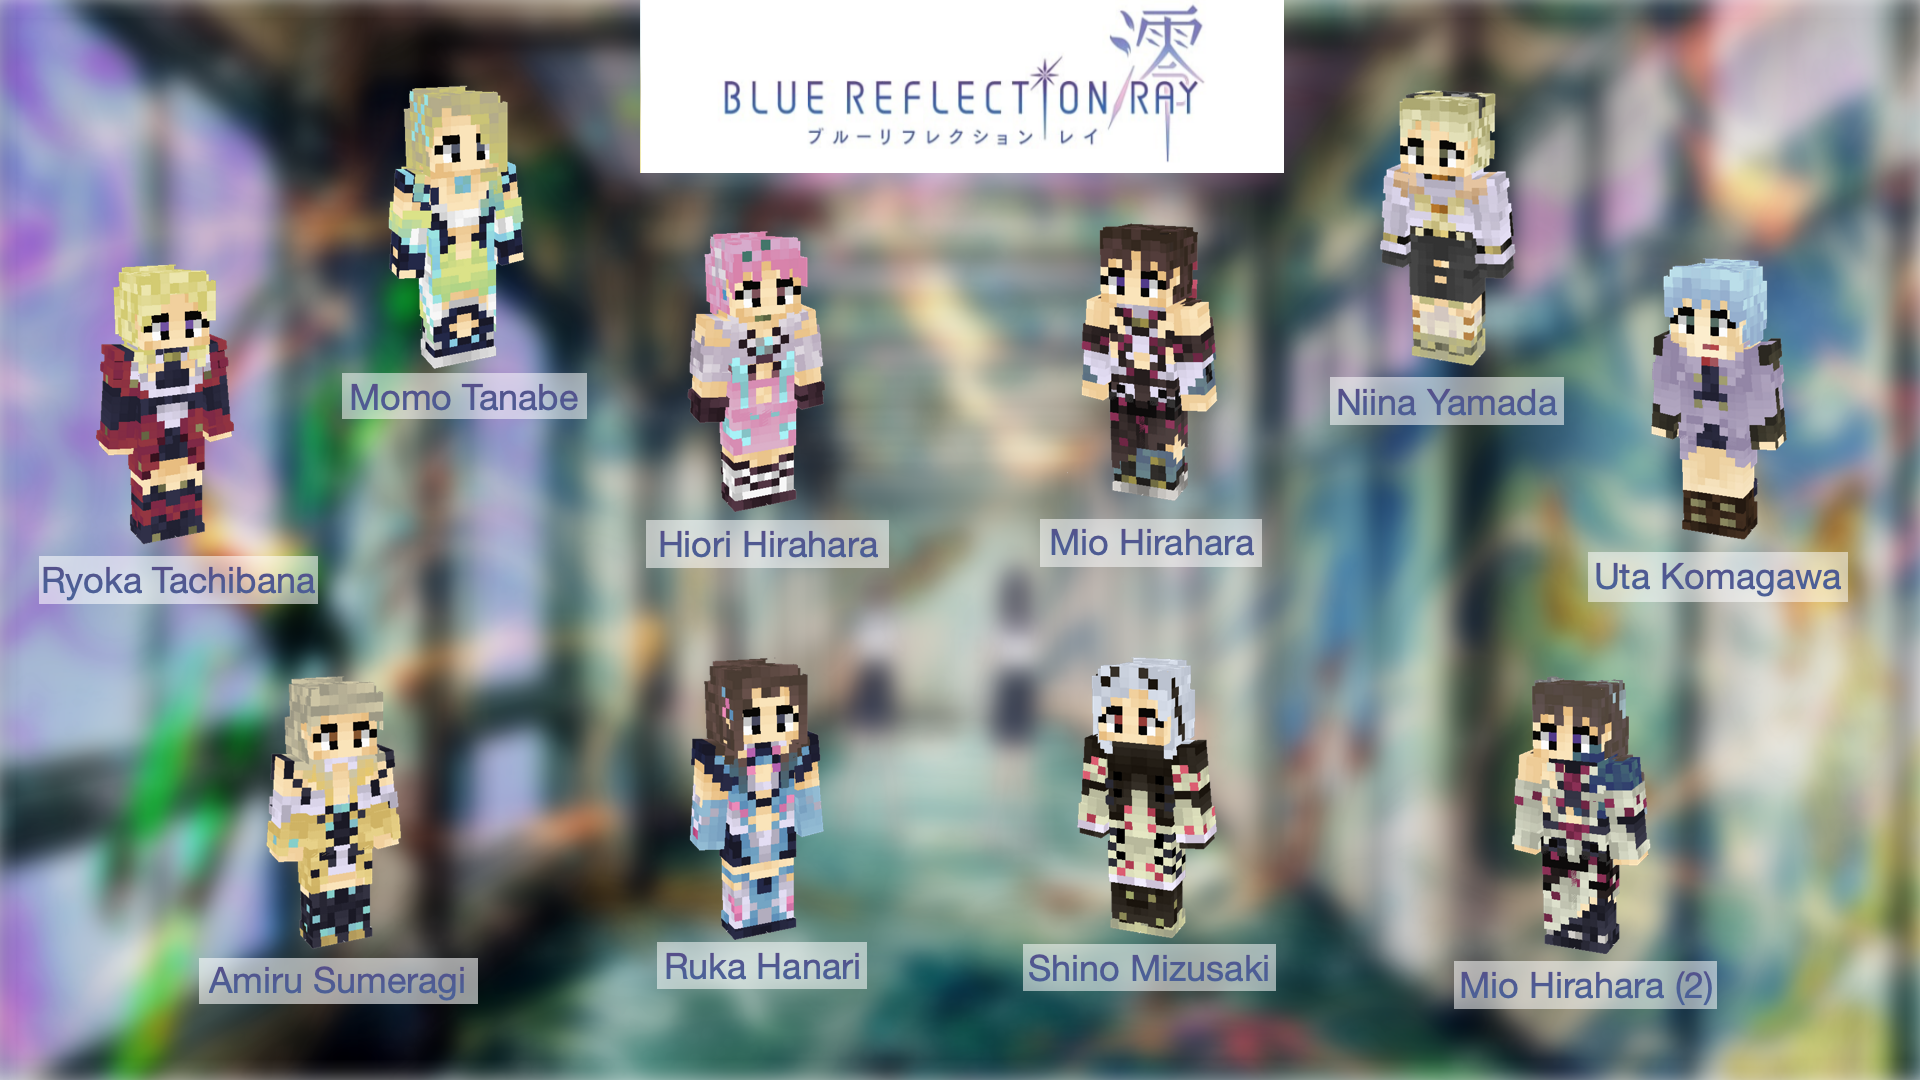
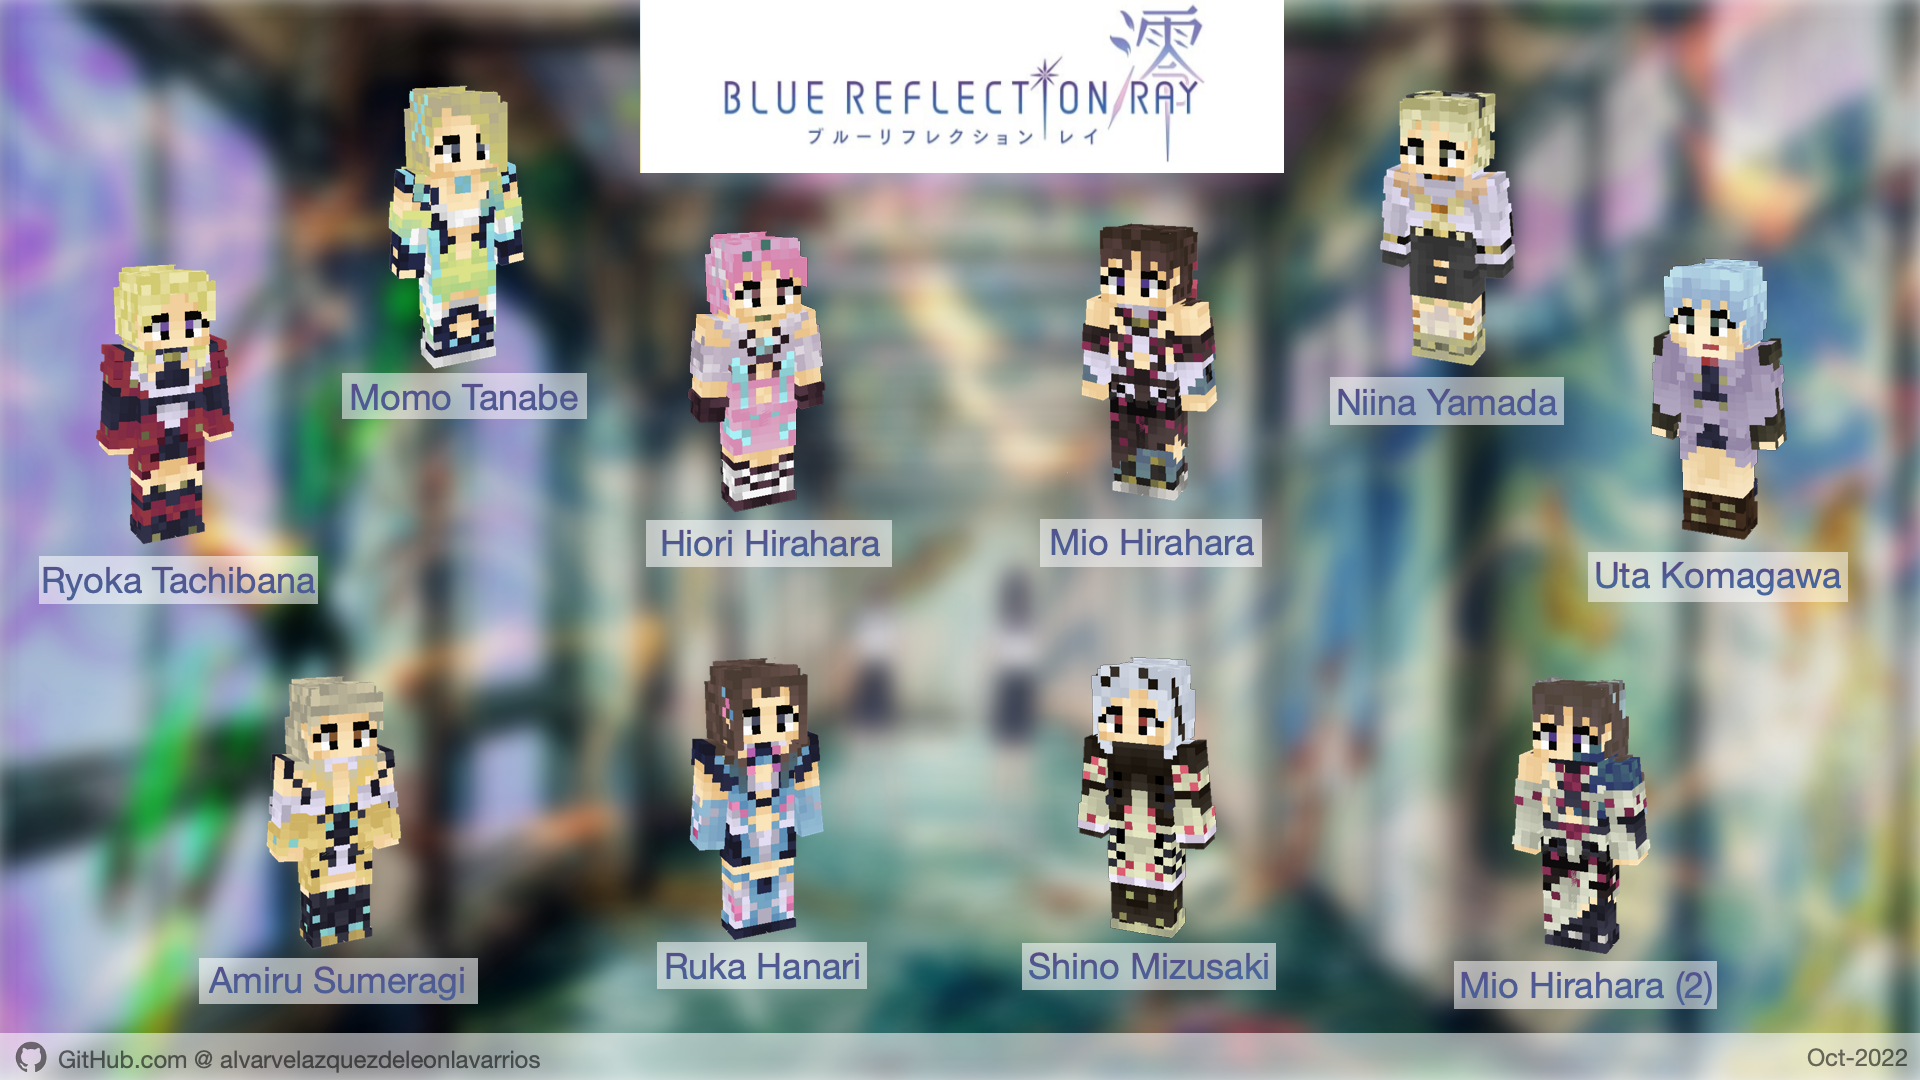
Summer Clothes for BR and Children for BR Ray
Features of this update:
- Added Summer Clothes skins for Blue Reflection characters, based on the BR DLC.
- Added children skins of some Blue Reflection Rays characeters.
- Added casual outfits for Hiori Hirahara and Ruka Hanari on Blue Reflection Ray folder.
- Minor changes on Uniforms source image.
- General changes in the majority of source images. Added a credit text to my GitHub profile and date for each one.

diff --git a/src/BlueReflectionRay.md b/src/BlueReflectionRay.md
@@ -46,6 +46,27 @@ Contains the skins of the characters from the anime T.V. show, spin-off of the f
 
 ![Blue Reflection Ray Minor Characters](/src/img/brR/BlueReflectionRayMinorCharacters.png)
 
+**Children:**
+- Hiori Hirahara (child)
+- Shino Mizusaki (child)
+- Kano Mizusaki (child)
+- Niina Yamada (child)
+
+![Blue Reflection Ray Children](/src/img/brR/BlueReflectionRayChildren.png)
+
+**Casual Outfits:**
+- Hiori Hirahara (Casual Outfit 1)
+- Hiori Hirahara (Casual Outfit 2)
+- Hiori Hirahara (Casual Outfit 3)
+- Hiori Hirahara (Casual Outfit 4)
+- Hiori Hirahara (Casual Outfit 5)
+- Ruka Hanari (Casual Outfit 1)
+- Ruka Hanari (Casual Outfit 2)
+- Ruka Hanari (Casual Outfit 3)
+- Ruka Hanari (Casual Outfit 4)
+
+![Blue Reflection Casual Outfits](/src/img/brR/BlueReflectionRayCasualOutfits.png)
+
 **Additional skins:**
 - Hiori Hirahara (Physical Education Uniform)
 - Ruka Hanari (Physical Education Uniform)

diff --git a/src/BlueReflection.md b/src/BlueReflection.md
@@ -84,6 +84,25 @@ Contains the skins of the characters from the first game of the franchise releas
 
 ![Blue Reflection Bath Towel](/src/img/br/BlueReflectionBathTowel.png)
 
+**Summer Clothes:**
+- Ako Ichinose (Summer Clothes)
+- Chihiro Inoue (Summer Clothes)
+- Fumio Taya (Summer Clothes)
+- Hinako Shirai (Summer Clothes)
+- Kaori Mitsui (Summer Clothes)
+- Kei Narimiya (Summer Clothes)
+- Lime Shijou (Summer Clothes)
+- Mao Ninagawa (Summer Clothes)
+- Rika Yoshimura (Summer Clothes)
+- Rin Sanada (Summer Clothes)
+- Sanae Nishida (Summer Clothes)
+- Sarasa Morikawa (Summer Clothes)
+- Shihori Sugamoto (Summer Clothes)
+- Yuri Saiki (Summer Clothes)
+- Yuzu Shijou (Summer Clothes)
+
+![Blue Reflection Summer Clothes](/src/img/br/BlueReflectionSummerClothes.png)
+
 **Atelier Costumes:**
 - Hinako Shirai (Rorona Costume)
 - Lime Shijou (Arland Maid - Hom Female)

diff --git a/src/Uniforms.md b/src/Uniforms.md
@@ -13,4 +13,4 @@ Contains the skins of the uniforms of each character or school in the franchise.
 - Tsukinomiya uniform
 - Yuki's uniform
 
-![Blue Reflection Uniforms](/src/img/BlueReflectionUniforms.png)
+![Blue Reflection Uniforms](/src/img/uniforms/BlueReflectionUniforms.png)
